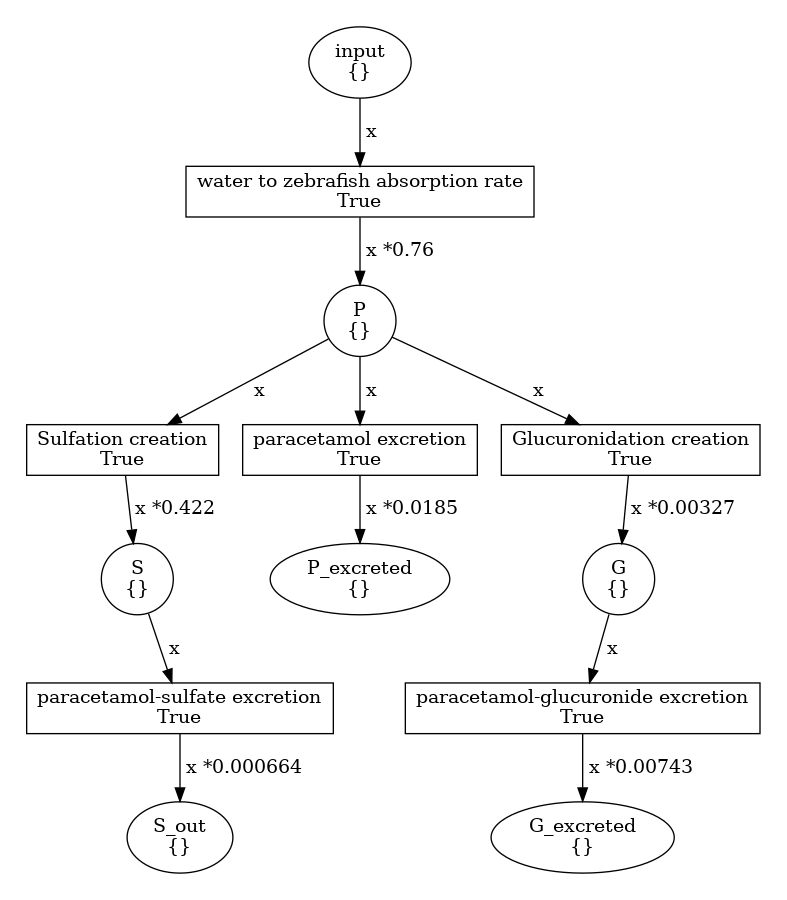
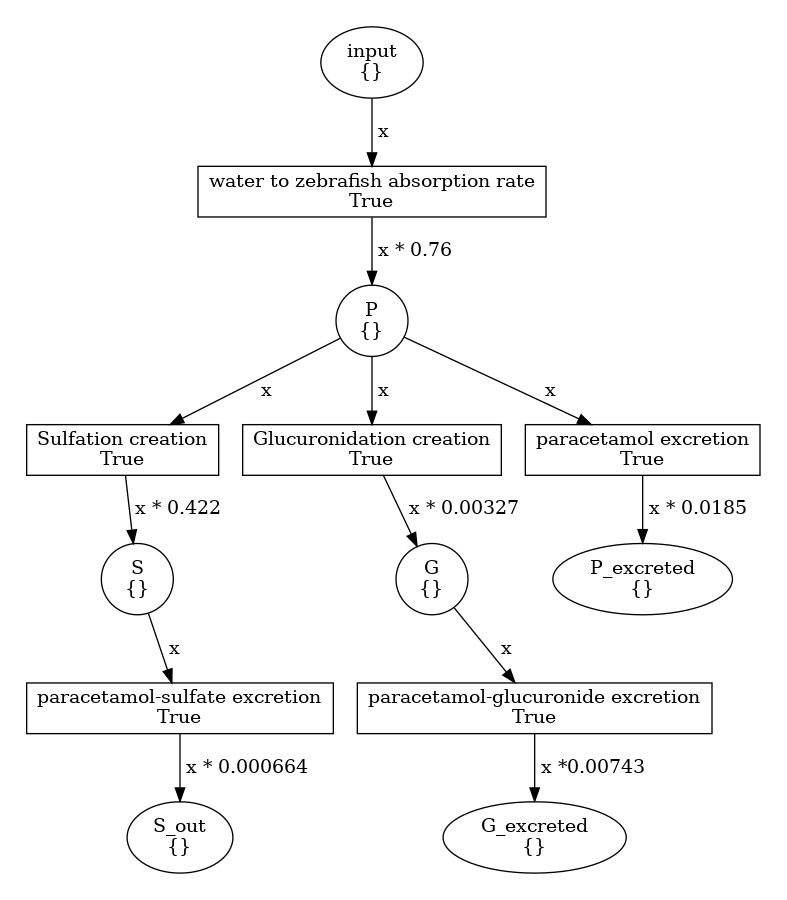
fix in model imports

diff --git a/Zebrafish_model.py b/Zebrafish_model.py
@@ -1,7 +1,8 @@
-from kiwisolver import Expression
 import snakes.plugins
-snakes.plugins.load('gv', 'snakes.nets', 'nets')
-from nets import *
+snakes.plugins.load('gv', 'snakes.nets', 'my_nets')
+from snakes.nets import *
+from my_nets import *  # required to draw networks
+
 
 class ZebraMol():
     def __init__(self, kappas=None, t=0, save_net_img=None):
@@ -18,64 +19,63 @@ class ZebraMol():
                             'k_G,e': 0.00743,
                             'k_S,e': 0.000664, }
         else: self.kappas = kappas
-        self.create_model()
-
+        self.net = self.create_model()
 
         if save_net_img is not None:
             self.net.draw(save_net_img, engine='dot')
 
-
     def create_model(self):
-        self.net = PetriNet('Zebrafish Paracetamol net')
+        net = PetriNet('Zebrafish Paracetamol net')
         
-        self.net.add_place(Place('input')) # paracetamol in water
-        self.net.add_place(Place('P')) # paracetamol in zebrafish
-        add_sequence(net=self.net,
+        net.add_place(Place('input')) # paracetamol in water
+        net.add_place(Place('P')) # paracetamol in zebrafish
+        add_sequence(net=net,
                     name="water to zebrafish absorption rate",
                     from_place='input',
                     to_place='P',
                     in_var="x",
-                    expr=f"x *{self.kappas['k_a']} ")
+                    expr=f"x * {self.kappas['k_a']} ")
 
-        self.net.add_place(Place('P_excreted'))
-        add_sequence(net=self.net,
+        net.add_place(Place('P_excreted'))
+        add_sequence(net=net,
                     name="paracetamol excretion",
                     from_place='P',
                     to_place='P_excreted',
                     in_var="x",
-                    expr=f"x *{self.kappas['k_P,e']} ")
+                    expr=f"x * {self.kappas['k_P,e']} ")
     
-        self.net.add_place(Place('G'))
-        add_sequence(net=self.net,
+        net.add_place(Place('G'))
+        add_sequence(net=net,
                     name="Glucuronidation creation",
                     from_place='P',
                     to_place='G',
                     in_var="x",
-                    expr=f"x *{self.kappas['k_PG,f']} ")
+                    expr=f"x * {self.kappas['k_PG,f']} ")
         
-        self.net.add_place(Place('G_excreted'))
-        add_sequence(net=self.net,
+        net.add_place(Place('G_excreted'))
+        add_sequence(net=net,
                     name="paracetamol-glucuronide excretion",
                     from_place='G',
                     to_place='G_excreted',
                     in_var="x",
                     expr=f"x *{self.kappas['k_G,e']} ")
         
-        self.net.add_place(Place('S'))
-        add_sequence(net=self.net,
+        net.add_place(Place('S'))
+        add_sequence(net=net,
                     name="Sulfation creation",
                     from_place='P',
                     to_place='S',
                     in_var="x",
-                    expr=f"x *{self.kappas['k_PS,f']} ")
+                    expr=f"x * {self.kappas['k_PS,f']} ")
 
-        self.net.add_place(Place('S_out'))
-        add_sequence(net=self.net,
+        net.add_place(Place('S_out'))
+        add_sequence(net=net,
                     name="paracetamol-sulfate excretion",
                     from_place='S',
                     to_place='S_out',
                     in_var="x",
-                    expr=f"x *{self.kappas['k_S,e']} ")
+                    expr=f"x * {self.kappas['k_S,e']} ")
+        return net
 
 def add_sequence(net, name, from_place, to_place, in_var, expr, t_exp=None):
     """ Params:
